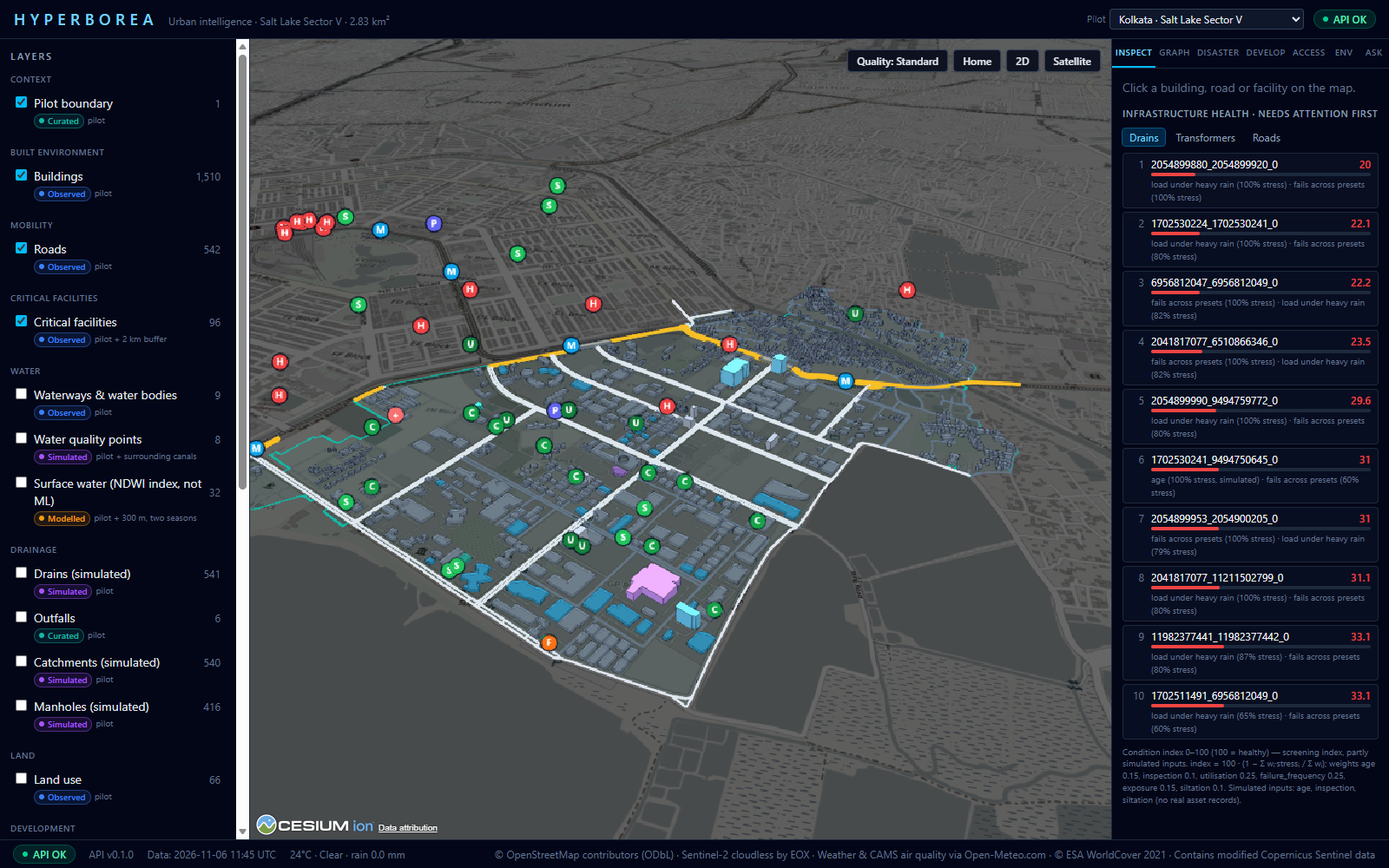
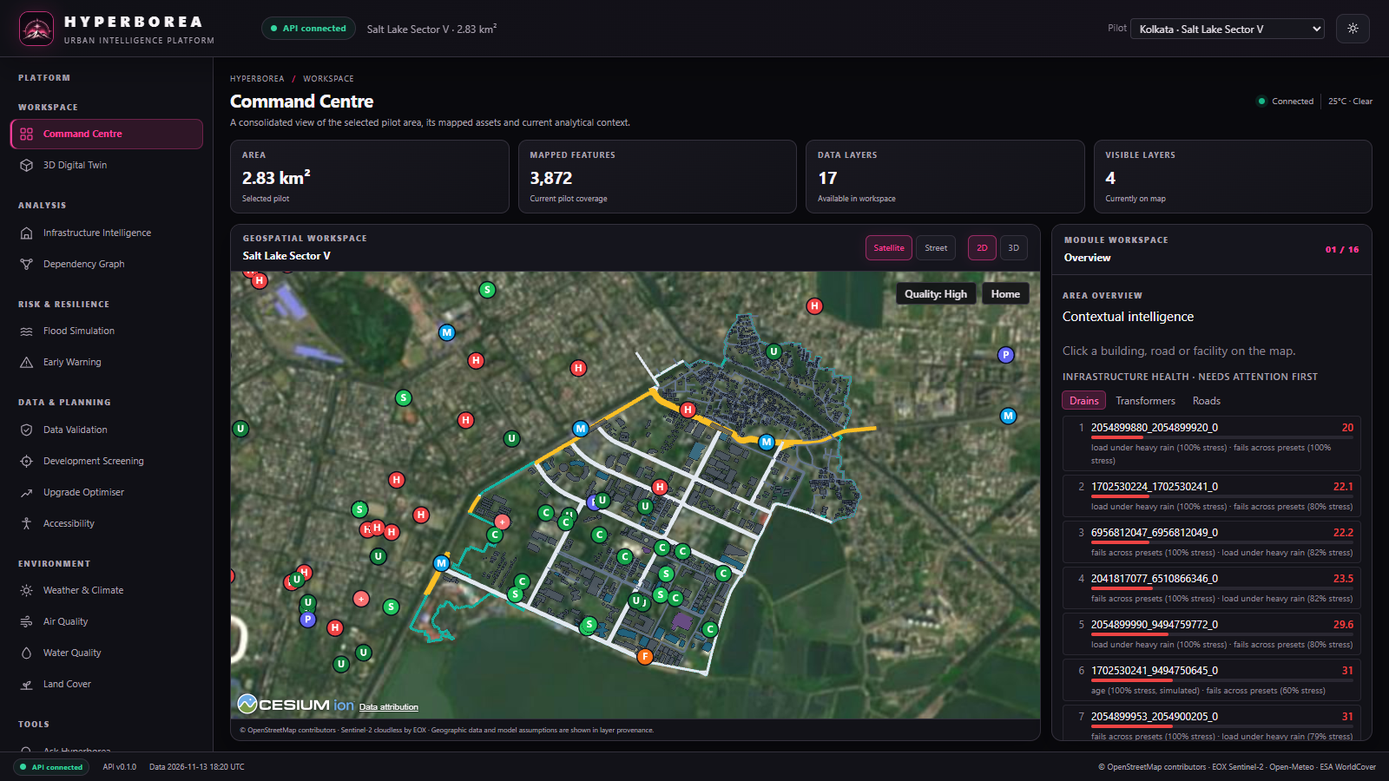
Docs: README, setup, architecture, data for the module workspace; new screenshots

diff --git a/README.md b/README.md
@@ -2,39 +2,47 @@
 
 **FIRE 2026 · SustAI.** Cities run drainage, power, roads and emergency services in separate systems, so nobody sees how
 a downpour in one street becomes a dark hospital or a blocked ambulance route two blocks away. Hyperborea puts five
-~3 km² urban pilots into one 3D twin where every asset is linked in a typed dependency graph, and runs transparent
-"what-if" scenarios on it — each result explained hop by hop.
+~3 km² urban pilots into one geospatial twin where every asset is linked in a typed dependency graph, and runs
+transparent "what-if" scenarios on it — each result explained hop by hop.
 
 ![Flood cascade in Salt Lake Sector V, Kolkata](docs/screenshots/02_flood_cascade.png)
 
 > **Honest by design.** Every feature carries `data_status` (observed · curated · modelled · simulated) and a `source_id`.
-> Drainage and electrical networks are **simulated** because no city publishes them — and the UI says so. Results are
-> scenario estimates, not predictions; risk scores are indices, not probabilities. We validated the engine against a real
-> flood and publish the (unflattering) result.
+> Drainage and electrical networks are **simulated** because no city publishes them — and the UI says so on the map.
+> Results are scenario estimates, not predictions; risk scores are indices, not probabilities. We validated the engine
+> against a real flood and publish the (unflattering) result.
 
-## What it does
-| Module | What you get |
-|---|---|
-| **3D command centre** | CesiumJS map, extruded buildings, layer manager with provenance badges, inspector, floating info tags, 2D/3D |
-| **Five pilots** | Kolkata (Salt Lake Sector V), Chennai (Velachery), Pune (Kharadi), London (Hackney Wick & Stratford), Sydney (Green Square) — one switch in the header |
-| **Flood cascade** | rain → drain overload → ponding → impassable roads → buildings above plinth → transformer shutdown → facilities without power or access, with a **Why?** chain per asset |
-| **Live early warning** | 72 h forecast → hourly ML quick-scan → worst burst run through the full engine → watch / warning banner |
-| **Validation** | Chennai Dec 2015 flood seen by Sentinel-1 radar vs our engine: hit rate, false alarms, AUC vs a "lowest ground floods first" baseline |
-| **Upgrade optimiser** | best drain upsizes, plinth raises and detention tanks for a budget (assumed unit costs in ₹ / £ / A$) |
-| **Development screening** | pick or draw a site → drainage, flood, road, facilities, electrical, water, land-use checks → A/B/C comparison (never an "approval") |
-| **Accessibility** | drive times to hospitals, fire stations and metro; flood-induced delays and isolated buildings |
-| **Environment** | Open-Meteo weather, ERA5 rainfall record, CAMS air quality in the local index (India NAQI, UK DAQI, NSW categories), WorldCover land cover, NDVI, NDWI surface water |
-| **Ask the twin** | plain-language questions answered only from engine results (rule parser, or a local LLM with a numeric grounding check) |
-| **Reports & health** | infrastructure condition index, printable scenario report (PDF / JSON / CSV) |
-| **Works offline** | if the API is unreachable the app serves frozen snapshots for every pilot |
+## The workspace
+One screen, three parts: a **module sidebar** (16 modules in six groups), a **geospatial workspace** (CesiumJS map,
+satellite or street basemap, 2D or 3D) and a **module panel** beside it. A KPI strip shows the pilot's area, mapped
+features and layers; the header switches pilot and theme (dark *Noir* or light *Ivory*, remembered per browser).
+
+| Group | Module | What you get |
+|---|---|---|
+| Workspace | **Command Centre** | pilot overview, layer manager with provenance badges, legend, asset inspector, infrastructure health |
+| | **3D Digital Twin** | the same map in 3D with extruded buildings, floating info tags, fly-to-asset |
+| Analysis | **Infrastructure Intelligence** | condition index for drains, transformers and roads (modelled, not field inspections) |
+| | **Dependency Graph** | typed relationships (`DRAINS_TO`, `SUPPLIES`, `DEPENDS_ON`, …) with the rule behind each edge |
+| Risk & resilience | **Flood Simulation** | rain → drain overload → ponding → impassable roads → buildings above plinth → transformer shutdown → facilities without power or access, with a **Why?** chain per asset |
+| | **Early Warning** | live 72 h forecast → hourly ML quick-scan → worst burst through the full engine → watch / warning banner |
+| Data & planning | **Data Validation** | provenance register per layer; Chennai Dec 2015 flood seen by Sentinel-1 radar vs the engine (hit rate, false alarms, AUC) |
+| | **Development Screening** | pick or draw a site → drainage, flood, road, facilities, electrical, water, land-use checks → A/B/C comparison (never an "approval") |
+| | **Upgrade Optimiser** | best drain upsizes, plinth raises and detention tanks for a budget (assumed unit costs in ₹ / £ / A$) |
+| | **Accessibility** | drive times to hospitals, fire stations and metro; flood-induced delays and isolated buildings |
+| Environment | **Weather · Air · Water · Land cover** | Open-Meteo weather and ERA5 rainfall record; CAMS air quality in the local index (India NAQI, UK DAQI, NSW categories); demo water-quality points; WorldCover, NDVI, NDWI surface water |
+| Tools | **Ask Hyperborea** | plain-language questions answered only from engine results (rule parser, or a local LLM with a numeric grounding check) + layer catalogue search |
+| | **Reports** | printable scenario report (PDF / JSON / CSV) with assumptions, provenance and attribution — **Open report** after a flood run |
+
+If the API is unreachable, the app serves **frozen snapshots** for every pilot (amber "Offline snapshot" badge).
 
 ## Screenshots
 | | |
 |---|---|
-| ![Command centre](docs/screenshots/01_command_centre.png) **Command centre** — Kolkata, provenance-labelled layers and the infrastructure health list | ![Flood cascade](docs/screenshots/02_flood_cascade.png) **Flood cascade** — extreme storm, 90 of 542 drains overloaded, live 72 h outlook on top |
-| ![Validation](docs/screenshots/03_validation_chennai.png) **Validation** — Chennai Dec 2015 radar flood map (violet) and the scorecard | ![London air](docs/screenshots/04_london_air_quality.png) **London** — UK DAQI from CAMS, LiDAR terrain |
-| ![Sydney](docs/screenshots/05_sydney_extreme.png) **Sydney** — extreme storm cascade in Green Square | ![Pune access](docs/screenshots/06_pune_access.png) **Pune** — drive time to the nearest hospital per building |
-| ![Ask](docs/screenshots/07_ask_the_twin.png) **Ask the twin** — grounded question answering | |
+| ![Command centre](docs/screenshots/01_command_centre.png) **Command Centre** — Kolkata on Sentinel-2 imagery, KPI strip, infrastructure health ranking | ![Flood cascade](docs/screenshots/02_flood_cascade.png) **Flood Simulation** — extreme storm (80 mm/h × 2 h), simulated networks labelled on the map, live 72 h outlook |
+| ![Validation](docs/screenshots/03_validation_chennai.png) **Data Validation** — Chennai Dec 2015 radar flood map (violet) and the engine scorecard | ![London air](docs/screenshots/04_london_air_quality.png) **Air Quality** — London in the UK DAQI, PM2.5 history + forecast, LiDAR terrain credit |
+| ![Sydney 3D](docs/screenshots/05_sydney_extreme_3d.png) **3D view** — extreme-storm cascade in Green Square, Sydney | ![Pune access](docs/screenshots/06_pune_access.png) **Accessibility** — drive time to the nearest hospital per building, Pune |
+| ![Ask](docs/screenshots/07_ask_the_twin.png) **Ask Hyperborea** — a grounded answer with a link to the scenario on the map | ![Light theme](docs/screenshots/08_light_theme_development.png) **Light theme** — Development Screening on the *Ivory* theme |
+| ![Dependency graph](docs/screenshots/09_dependency_graph.png) **Dependency Graph** — 9,613 assets and 7,042 typed relationships in Sector V | |
 
 ## The pilots
 | Pilot | Area | Buildings | Terrain | Air index | Extreme storm (80 mm/h × 2 h) |
@@ -59,20 +67,22 @@ overflow downhill and add lake/river inflows.
 ## Quick start (Windows / PowerShell)
 ```powershell
 git lfs install
-$env:GIT_LFS_SKIP_SMUDGE = "1"   # skip the 1.7 GB of rebuild-only LFS files; setup fetches the ~12 MB the app needs
+$env:GIT_LFS_SKIP_SMUDGE = "1"   # skip the ~1.7 GB of rebuild-only LFS files; setup fetches the ~12 MB the app needs
 git clone https://github.com/soham-newjourney2/z-Hyperborea.git hyperborea; cd hyperborea
 Remove-Item Env:GIT_LFS_SKIP_SMUDGE
 .\scripts\setup.ps1            # run-only data + .venv + Python and npm packages + .env (add -Full to rebuild data)
 . .\scripts\env.ps1            # every new shell: caches inside the project, activates .venv
 .\scripts\dev.ps1              # API :8000 + web :5173 (+ local LLM if installed)
 ```
-Open <http://localhost:5173> — no login by default. Step-by-step guide, optional local LLM and data rebuilds:
-[docs/SETUP.md](docs/SETUP.md).
+Open <http://localhost:5173> — no login by default. Everything installs **inside the project folder** (`.venv`,
+`frontend/node_modules`, caches and optional portable Python / Node in `local/`). Step-by-step guide, deep links,
+optional local LLM and data rebuilds: [docs/SETUP.md](docs/SETUP.md).
 
 ## Architecture
-React 19 + TypeScript + CesiumJS frontend ↔ FastAPI modular monolith (layer store, relationship graph, flood / power /
-access / development engines, ML surrogate, warning, optimiser, validation, explainer) ↔ per-region GeoPackages built by
-offline Python pipelines. Regions are pure configuration (`config/regions.yaml`). Details, diagram and API list:
+React 19 + TypeScript + CesiumJS frontend (module workspace shell) ↔ FastAPI modular monolith (layer store,
+relationship graph, flood / power / access / development engines, ML surrogate, warning, optimiser, validation,
+explainer) ↔ per-region GeoPackages built by offline Python pipelines. Regions are pure configuration
+(`config/regions.yaml`). Runs locally; no cloud services are required. Details, diagram and API list:
 [docs/ARCHITECTURE.md](docs/ARCHITECTURE.md).
 
 | Layer | Stack |
@@ -81,6 +91,19 @@ offline Python pipelines. Regions are pure configuration (`config/regions.yaml`)
 | Backend | Python 3.12, FastAPI, GeoPandas, Shapely, NetworkX, scikit-learn, PyJWT (optional login) |
 | Pipelines | osmnx + pyosmium, rasterio / rioxarray, pystac-client + Planetary Computer, scipy |
 | AI | scikit-learn flood surrogate (per region); optional local LLM Qwen3-4B-Instruct-2507 via Ollama (Apache-2.0 / MIT) |
+
+## Repository layout
+```
+backend/      FastAPI app (app/), engines (engine/), tests (tests/)
+frontend/     React + Cesium web app (src/), offline snapshots and overlays (public/)
+pipelines/    offline data builders, one module per step
+config/       regions and engine thresholds (YAML)
+data/         per-region data: processed/ (served), curated/, synthetic/, snapshots/, raw/ (rebuild only)
+models/       per-region flood surrogate + model cards
+local/        per-region OSM extracts and DEMs (rebuild only); caches and portable tools (git-ignored)
+scripts/      setup, env, dev, region build, snapshots, data audit, Ollama installer
+docs/         setup guide, architecture, data sources, screenshots
+```
 
 ## Configuration
 | `.env` variable | Purpose |
@@ -97,7 +120,7 @@ bands, regions).
 ## Tests and checks
 ```powershell
 pytest backend/tests -q                                   # 138 tests: engines, endpoints, regions, add-ons
-cd frontend; npm run lint; npm test; npm run build; cd ..  # oxlint, vitest, type-check + production build
+cd frontend; npm run lint; npm test; npm run build; cd ..  # oxlint, vitest (9 tests), type-check + production build
 python scripts/audit_data.py                              # provenance audit of all five pilots (must say PASS)
 ```
 
@@ -108,6 +131,8 @@ python scripts/audit_data.py                              # provenance audit of 
   are demo data; development norms are Indian defaults in every pilot.
 - ERA5 (~25 km) smooths local cloudbursts; the ML surrogate imitates our engine, not real floods; the LLM can still slip
   in meaning (numbers are checked, meaning is not) — template answers are the default.
+- The satellite basemap is Sentinel-2 cloudless (EOX, ~10 m), not live or high-resolution imagery; basemaps need
+  internet access.
 
 ## Roadmap
 Downhill overflow routing and lake/river inflows · real drain surveys and pumping stations for one city · utility

diff --git a/docs/SETUP.md b/docs/SETUP.md
@@ -1,32 +1,49 @@
 # Setup guide (Windows / PowerShell)
 
 Everything runs **inside the project folder**: Python packages in `.venv`, npm packages in `frontend/node_modules`,
-models, tools and caches in `local/`. Nothing is installed globally except the prerequisites below. Run every command in
-**PowerShell from the repo root** unless a step says otherwise.
+models, caches and (optionally) portable Python / Node in `local/`. Nothing is installed globally except the
+prerequisites below. Run every command in **PowerShell from the repo root** unless a step says otherwise.
 
 | You want to… | Do steps |
 |---|---|
 | run the app | 1 → 2 → 3 → 5 |
-| also use the local LLM (Ask tab, explanations) | + 4 |
+| also use the local LLM (Ask Hyperborea, explanations) | + 4 |
 | change pipelines or add a city | + 7 (full data download) |
 
 ---
 
 ## 1. Prerequisites (once per machine)
 
-| Tool | Version we use | Get it |
+| Tool | Version | Get it |
 |---|---|---|
 | Git + **Git LFS** | Git for Windows (includes Git LFS 3.x) | <https://git-scm.com/download/win> |
-| Python | **3.12** (3.12.10) | <https://www.python.org/downloads/> — tick "Add python.exe to PATH" |
-| Node.js | **26.x** (26.12.1) | <https://nodejs.org/> |
+| Python | **3.12** | system install (<https://www.python.org/downloads/>, tick "Add python.exe to PATH") **or** portable, below |
+| Node.js | **24 LTS** or newer (tested: 24.22, 26.12) | system install (<https://nodejs.org/>) **or** portable, below |
 | NVIDIA GPU + driver | only for the optional local LLM (6 GB VRAM is enough) | <https://www.nvidia.com/Download/index.aspx> |
 
 ```powershell
 git lfs version        # git-lfs/3.x — the larger data files come through Git LFS
-py -3.12 --version     # the Python launcher must find 3.12
-node --version         # v26.x
+py -3.12 --version     # system Python: the launcher must find 3.12
+node --version         # system Node: v24 or newer
 ```
 If PowerShell refuses to run scripts (`running scripts is disabled`): `Set-ExecutionPolicy -Scope CurrentUser RemoteSigned`.
+
+### Optional — keep Python and Node inside the project
+`local/tools/` is git-ignored. When these folders exist, the scripts use them instead of the system installs:
+
+| Folder | Used by | Contents |
+|---|---|---|
+| `local/tools/python/` | `setup.ps1` builds `.venv` from it | a standalone CPython 3.12 (`python.exe` directly inside), e.g. the `install_only` build from [python-build-standalone](https://github.com/astral-sh/python-build-standalone/releases) |
+| `local/tools/node/` | `env.ps1` puts it first on `PATH` | the Node.js Windows zip, unpacked (`node.exe` directly inside) |
+
+```powershell
+# Node 24 LTS, portable (after step 2, from the repo root)
+$v = 'v24.22.3'; New-Item -ItemType Directory -Force local\cache, local\tools | Out-Null
+Invoke-WebRequest -UseBasicParsing "https://nodejs.org/dist/$v/node-$v-win-x64.zip" -OutFile local\cache\node.zip
+Expand-Archive local\cache\node.zip local\cache\node-x; Move-Item "local\cache\node-x\node-$v-win-x64" local\tools\node
+Remove-Item -Recurse local\cache\node.zip, local\cache\node-x
+```
+Check the zip against `https://nodejs.org/dist/<version>/SHASUMS256.txt` before unpacking if you want to be strict.
 
 ---
 
@@ -63,8 +80,8 @@ What it does, step by step (if you prefer to run it by hand):
 
 ```powershell
 git lfs pull --include "data/regions/*/processed/**"   # run-only data (or: git lfs pull  for everything)
-py -3.12 -m venv .venv                                  # Python environment inside the project
-. .\scripts\env.ps1                                     # activate it + keep pip/npm/osmnx/model caches in local/ (every new shell)
+py -3.12 -m venv .venv                                  # or: local\tools\python\python.exe -m venv .venv
+. .\scripts\env.ps1                                     # activate .venv, portable Node on PATH, caches in local/ (every new shell)
 python -m pip install --upgrade pip
 pip install -r requirements-pipelines.txt               # API + pipelines (includes backend/requirements.txt)
 cd frontend; npm ci; cd ..                              # frontend packages from package-lock.json
@@ -81,14 +98,13 @@ copy .env.example .env                                  # the defaults work as-i
 | `EXPLAINER` | `template` | `template` or `ollama` (default answer mode) |
 | `OLLAMA_URL` / `OLLAMA_MODEL` | `http://localhost:11434` / `qwen3:4b-instruct-2507-q4_K_M` | local LLM |
 | `VITE_API_URL` | `http://localhost:8000/api` | where the frontend finds the API |
-| `HF_TOKEN`, `HF_SPACE` | empty | only for deploying (step 8) |
 
 ---
 
 ## 4. Optional — local LLM (Ollama + Qwen3-4B-Instruct, ~4.7 GB, not in the repo)
 
-Used by the **Ask** tab and the plain-language explanations. Without it, both use deterministic templates. The LLM only
-rephrases engine facts; any answer containing a number that is not in the facts is rejected.
+Used by **Ask Hyperborea** and the plain-language explanations in Flood Simulation. Without it, both use deterministic
+templates. The LLM only rephrases engine facts; any answer containing a number that is not in the facts is rejected.
 
 ```powershell
 . .\scripts\env.ps1
@@ -109,18 +125,36 @@ Use the **instruct-2507** build; the plain `qwen3:4b` is a "thinking" model that
 .\scripts\dev.ps1            # opens windows: API :8000 (auto-reload), web :5173, Ollama :11434 if installed
 ```
 
-Open <http://localhost:5173>. No login by default.
+Open <http://localhost:5173>. No login by default. Close the windows to stop the servers.
 
-| Where | Try |
+**The screen:** module sidebar on the left (16 modules), the map in the middle (Satellite / Street, 2D / 3D buttons
+above it), the active module's panel on the right. The header has the **Pilot** switcher and the theme button
+(dark ↔ light, remembered in this browser).
+
+| Module | Try |
 |---|---|
-| Header → **Pilot** | switch Kolkata · Chennai · Pune · London · Sydney (the app reloads into that city) |
-| **Disaster** tab | 72 h outlook (or "try a demo burst"), run *Extreme 80×2h*, click an affected asset → **Why?**, the upgrade optimiser at the bottom; in **Chennai** the validation card + radar flood map |
-| **Develop** tab | pick a site S1–S3 → Assess → Compare A/B/C |
-| **Access** / **Env** tabs | drive times to hospitals; weather, air quality in the local index, land cover |
-| **Ask** tab | "Which hospitals lose access at 60 mm/h for 2 hours?" |
+| **Command Centre** | click a building, road or facility → inspector; layer switches and provenance badges |
+| **3D Digital Twin** | 3D view with extruded buildings; **Home** re-frames the pilot |
+| **Flood Simulation** | run *Extreme 80×2h*, click an affected asset → **Why?**; the upgrade optimiser at the bottom |
+| **Early Warning** | 72 h outlook (or "try a demo burst" when the forecast is dry) |
+| **Data Validation** | switch Pilot to **Chennai** → Sentinel-1 scorecard + "radar flood map" layer |
+| **Development Screening** | pick site S1–S3 → Assess → Compare A/B/C |
+| **Accessibility** | drive times to hospitals / fire stations / metro; run a flood first for the Δ view |
+| **Ask Hyperborea** | "Which hospitals lose access at 60 mm/h for 2 hours?" |
+| **Reports** | what a report contains; after a flood run, **Open report** in Flood Simulation gives the printable report (PDF / JSON / CSV) |
+
+### Deep links
+| Link | Opens |
+|---|---|
+| `?region=london_stratford` | another pilot (`sector_v` default, `chennai_velachery`, `pune_kharadi`, `london_stratford`, `sydney_green_square`) |
+| `?module=<id>` | a module: `command` `twin` `infrastructure` `graph` `flood` `warning` `validation` `development` `upgrade` `access` `weather` `air` `water` `land` `ask` `reports` |
+| `?scenario=extreme` | Flood Simulation with that preset already run (`moderate`, `design`, `heavy`, `extreme`) |
+| `?env=air` · `?tab=relations` | older link forms, still supported |
+| `?layers=sar_flood,-buildings` | switch layers on / off on load |
+| `?asset=<asset_id>` | select an asset on load |
 
 API health: <http://localhost:8000/api/health> (add `?region=london_stratford` for another city).
-If the API is not running, the web app opens **offline snapshots** (amber badge) for every city.
+If the API is not running, the web app opens **offline snapshots** (amber "Offline snapshot" badge) for every city.
 
 ---
 
@@ -129,7 +163,7 @@ If the API is not running, the web app opens **offline snapshots** (amber badge)
 ```powershell
 . .\scripts\env.ps1
 pytest backend/tests -q                                    # 138 tests: engines, endpoints, regions, add-ons
-cd frontend; npm run lint; npm test; npm run build; cd ..   # oxlint, vitest, type-check + production build
+cd frontend; npm run lint; npm test; npm run build; cd ..   # oxlint, vitest (9 tests), type-check + production build
 python scripts/audit_data.py                               # provenance audit of all five cities — must say PASS
 ```
 
@@ -163,30 +197,22 @@ Remove-Item Env:HYPERBOREA_REGION
 
 Downloads during rebuilds: OSM extracts (Geofabrik, BBBike), Copernicus DEM, ESA WorldCover, Sentinel-1/2 (Microsoft
 Planetary Computer — no account), EA LiDAR (London, no account), ERA5 / forecast / CAMS (Open-Meteo — no key).
-Sources and licences: [DATA.md](DATA.md).
+Sources and licences: [DATA.md](DATA.md). Rebuilds are CPU-heavy (minutes per step on a laptop).
 
 ---
 
-## 8. Deploy (only when the team agrees)
-
-```powershell
-npx vercel login                                                      # once, for the web app
-.\scripts\deploy.ps1 -Target all -WebOrigin https://<app>.vercel.app  # needs HF_TOKEN + HF_SPACE in .env
-```
-Then set the Hugging Face Space secret `CORS_ORIGINS` (add `AUTH_REQUIRED=true`, `ADMIN_PASSWORD`, `JWT_SECRET` only if you
-want a login; the hosted server refuses the default password). The local LLM is not deployed — hosted answers use templates.
-
----
-
-## 9. Troubleshooting
+## 8. Troubleshooting
 
 | Symptom | Fix |
 |---|---|
 | `running scripts is disabled` | `Set-ExecutionPolicy -Scope CurrentUser RemoteSigned` |
 | A city shows no buildings / API error "No data loaded" | its processed LFS files are pointers: `git lfs pull --include "data/regions/*/processed/**"` |
 | Pipeline says an OSM extract is missing or tiny | full LFS not pulled: `git lfs pull` (or `.\scripts\setup.ps1 -Full`) |
-| `No .venv yet` from env.ps1 | `py -3.12 -m venv .venv`, then re-run setup |
+| `No .venv yet` from env.ps1 | `py -3.12 -m venv .venv` (or the portable Python), then re-run setup |
+| `node` not found / wrong version | install Node 24+, or unpack it to `local/tools/node` (step 1) and open a new shell with `. .\scripts\env.ps1` |
 | A login screen appears | `AUTH_REQUIRED=true` in `.env` — set it to `false` and restart the API |
+| Map is grey / no basemap | Satellite (EOX) and Street (OSM) tiles need internet; layers still draw without them |
+| Header says "Offline snapshot" | the API is not reachable — start it with `.\scripts\dev.ps1`; the app shows frozen results meanwhile |
 | "Error in sys.excepthook" after a pipeline step | harmless GDAL shutdown noise in PowerShell 5.1 (exit code is 0) |
 | "Local LLM" greyed out | Ollama not running or model not pulled (step 4); templates still work |
 | Port 8000 / 5173 busy | close old dev windows, or `Get-NetTCPConnection -LocalPort 8000` to find the process |

diff --git a/docs/ARCHITECTURE.md b/docs/ARCHITECTURE.md
@@ -1,14 +1,16 @@
 # Architecture
 
 Hyperborea is a **modular monolith**: one FastAPI backend that holds every pilot region in memory, a React + CesiumJS
-frontend, and offline Python pipelines that build each region's data. No database server, no message broker — data lives
-in small GeoPackages / JSON files per region (`data/regions/<id>/`).
+frontend, and offline Python pipelines that build each region's data. No database server, no message broker, no cloud
+services — everything runs on one machine and data lives in small GeoPackages / JSON files per region
+(`data/regions/<id>/`).
 
 ```mermaid
 flowchart LR
   subgraph Browser["Frontend · React 19 + TypeScript + CesiumJS (Vite)"]
-    MAP[3D map<br/>layers · inspector · info tag]
-    TABS[Inspect · Graph · Disaster · Develop · Access · Env · Ask]
+    SHELL[Module workspace<br/>sidebar · KPI strip · dark / light theme]
+    MAP[Cesium map · 2D / 3D<br/>layers · inspector · info tag]
+    MODS[16 modules<br/>flood · warning · validation · develop · access · env · ask · …]
     SNAP[(Offline snapshots<br/>public/snapshots/regions/&lt;id&gt;)]
   end
 
@@ -106,10 +108,21 @@ detention storage. Thresholds live in `config/flood.yaml`, `config/risk.yaml`.
 | `POST /auth/login` | only used when `AUTH_REQUIRED=true` |
 
 ## Frontend
-`frontend/src/App.tsx` (shell, tabs, deep links `?region=&tab=&scenario=&layers=`), `components/MapView.tsx` (Cesium
-viewer, one styling switch per layer, scenario colouring by asset id), one component per tab/card, `lib/api.ts` (typed
-client; every call carries `?region=`; falls back to `public/snapshots/regions/<id>/*.json` when the API is unreachable),
-`lib/region.ts` (active pilot from the URL; switching reloads the app), `store.ts` (Zustand).
+| File | Responsibility |
+|---|---|
+| `src/App.tsx` | the shell: header (pilot switcher, theme toggle), module sidebar, KPI strip, map panel (Satellite / Street, 2D / 3D), module panel, footer; the module registry (`MODULES`, 16 entries in six groups) and deep links (`?region=`, `?module=`, `?scenario=`, `?env=`, `?tab=`, `?layers=`, `?asset=`) |
+| `src/components/MapView.tsx` | Cesium viewer: one styling switch per layer, scenario colouring by asset id, 2D-aware framing and fly-to, re-homing after 2D ⇄ 3D morphs |
+| `src/components/*` | one component per panel or card — `DisasterLab` (flood), `ForecastOutlook` + `WarningBanner` (early warning), `ValidationCard`, `OptimiserCard`, `DevelopmentPanel`, `AccessPanel`, `EnvironmentPanel` (+ `WeatherPanel`), `RelationshipExplorer`, `InfraHealth`, `AskPanel`, `AssetInspector`, `LayerManager`, `Legend`, `ReportPage` |
+| `src/store.ts` | Zustand store: layers, visibility, selection, imagery (`eox` default) and view (`2d` default), scenario result, `rightTab` |
+| `src/lib/api.ts` | typed client; every call carries `?region=`; falls back to `public/snapshots/regions/<id>/*.json` when the API is unreachable |
+| `src/lib/region.ts` · `auth.ts` · `styles.ts` | active pilot from the URL (switching reloads the app) · optional login token · colour ramps and theme-aware chart colours |
+| `src/index.css` | Tailwind 4 + the shell styles; the two themes (*Noir* dark, *Ivory* light) remap the `--color-slate-*` / `--color-sky-*` variables, so every panel follows the theme without per-component overrides |
+
+**Modules and panels.** Each module renders an existing panel (or a combination) in the module panel. The panels still
+use the store's `rightTab` for deep links and cross-links ("explore relationships", the warning banner, scenario links);
+`App.tsx` keeps module and `rightTab` in sync in both directions (`MODULE_TAB` / `TAB_MODULE`). The theme is stored in
+`localStorage` (`hyperborea.theme`) and applied as `data-theme` on `<html>`. The login screen appears only when the API
+reports `auth_required: true`.
 
 ## Offline pipelines
 `scripts/build_region.ps1 -Region <id>` runs, in order: boundary → `fetch_osm` → `normalize_osm` → `fetch_dem` →
@@ -118,6 +131,6 @@ client; every call carries `?region=`; falls back to `public/snapshots/regions/<
 freezes API responses per region; `scripts/audit_data.py` checks provenance on every layer.
 
 ## Quality gates
-`pytest backend/tests` (engines, endpoints, regions, auth switch, add-ons) · `npm run lint && npm test && npm run build` ·
+`pytest backend/tests` (138 tests: engines, endpoints, regions, auth switch, add-ons) · `npm run lint && npm test && npm run build` ·
 `python scripts/audit_data.py` (every feature has `asset_id`, valid `data_status`, registered `source_id`; simulated layers
 flagged; no non-LFS file > 5 MB; no secrets tracked).

diff --git a/docs/DATA.md b/docs/DATA.md
@@ -132,7 +132,16 @@ Licences were checked on the provider pages on the dates given.
 ### ml_surrogate — Flood surrogate model
 - Ours (`train_surrogate.py`): scikit-learn HistGradientBoosting per region, trained on 2,000 engine runs, tested on held-out spatial blocks (F1 0.86–0.93 vs 0.37–0.58 for a rain-threshold baseline). **modelled** — a copy of our engine, not validated on real floods. Model cards in `models/regions/<id>/model_cards/`.
 
-## Attribution (shown in the app footer and reports)
+### Basemaps (not data layers)
+- **Satellite** (default): Sentinel-2 cloudless mosaic by EOX IT Services (tiles.maps.eox.at) — "Sentinel-2 cloudless by
+  EOX", contains modified Copernicus Sentinel data. ~10 m, a cloud-free composite, not live or high-resolution imagery.
+- **Street**: OpenStreetMap standard tiles (tile.openstreetmap.org) — "© OpenStreetMap contributors", light demo use only.
+- Both are streamed from the internet at view time and never stored in the repo.
+
+## Attribution
+The app footer shows short credits (OpenStreetMap · EOX Sentinel-2 · Open-Meteo · ESA WorldCover, plus the Environment
+Agency terrain credit in London) and the map panel credits the basemap. The full list below is in every scenario report
+and in the README:
 © OpenStreetMap contributors (ODbL) · Copernicus DEM GLO-30 © DLR/Airbus, ESA · © Environment Agency 2022 (OGL v3, London
 terrain) · ERA5 (Copernicus/ECMWF), weather and CAMS air quality via Open-Meteo.com (CC BY 4.0) · © ESA WorldCover 2021
 (CC BY 4.0) · Contains modified Copernicus Sentinel data 2015–2026 · Sentinel-2 cloudless by EOX (base imagery).
